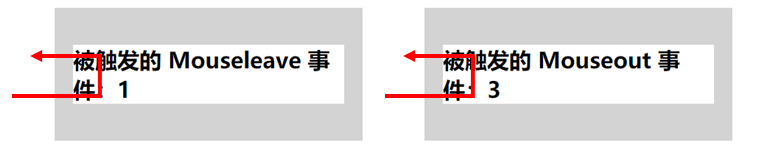
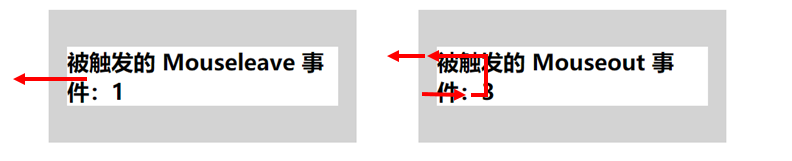
update

Changed region(s): [[0.0, 0.053, 0.9563, 0.9536]]

diff --git a/DOM/DOM事件/mouseenter和mouseover,mouseleave和mouseout.md b/DOM/DOM事件/mouseenter和mouseover,mouseleave和mouseout.md
@@ -5,6 +5,13 @@
 
 **mouseout**：事件在当指针设备（通常是鼠标）移出了附加侦听器的元素或关闭了它的一个子元素时触发。
 **mouseleave**：指点设备（通常是鼠标）的指针移出某个元素时，会触发mouseleave事件。
+## 异同（简略版）
+&nbsp; | 触发条件 | 是否冒泡 
+:-: | :-- | :-: 
+mouse**enter** | 鼠标指针穿过被选元素 | 否 
+mouse**over** | 鼠标指针穿过被选元素**或其子元素、孙元素**| 是 
+mouse**leave** | 鼠标指针穿过被选元素| 否
+mouse**out** | 鼠标指针穿过被选元素**或其子元素、孙元素**| 是 
 ## 执行顺序
 ```
 <div></div>
@@ -18,43 +25,90 @@
         ele.addEventListener('event',function(){
             console.log(output);
         })
-    }
+    }//测试展示如下图
 </script>
 ```
 ![Alt text](../../picture/mouseEvent_1.png)
+
 ## 触发条件
-按照**介绍**中给出的定义
-不论鼠标指针穿过被选元素或其子元素、孙元素，都会触发mouseover事件
+按照**介绍**中给出的定义   
+不论鼠标指针穿过被选元素或其子元素、孙元素，都会触发mouseover事件   
 只有鼠标指针穿过被选元素时，才会触发mouseenter事件
-![Alt text](../../picture/mouseEvent_2.png)
 ```
-    <div>
-        <h2>被绑定的<span class="eventType"></span>事件被触发<span class="count">0</span></h2>
-    </div>
-    <div>
-        <h2>被绑定的<span class="eventType"></span>事件被触发<span class="count">0</span></h2>
-    </div>
-    <script>
-        var div = document.getElementsByTagName('div');
-        function bindEvent(ele, event, output){
-            var eventType = ele.getElementsByClassName('eventType')[0];
-            var count = ele.getElementsByClassName('count')[0];
-            eventType.textContent = event;
-            ele.addEventListener(event,function(){
-                count.textContent = parseInt(count.textContent)+1;
-            })
-        }
+<div>
+    <h2>被绑定的<span class="eventType"></span>事件被触发<span class="count">0</span></h2>
+</div>
+<div>
+    <h2>被绑定的<span class="eventType"></span>事件被触发<span class="count">0</span></h2>
+</div>
+<script>
+    var div = document.getElementsByTagName('div');
+    function bindEvent(ele, event, output){
+        var eventType = ele.getElementsByClassName('eventType')[0];
+        var count = ele.getElementsByClassName('count')[0];
+        eventType.textContent = event;
+        ele.addEventListener(event,function(){
+            count.textContent = parseInt(count.textContent)+1;
+        })
+    }
         
-        bindEvent(div[0], 'mouseover', 'mouseover');
-        bindEvent(div[1], 'mouseenter', 'mouseenter');
-    </script>
+    bindEvent(div[0], 'mouseover', 'mouseover');
+    bindEvent(div[1], 'mouseenter', 'mouseenter');
+</script>
 ```
-按照**介绍**中给出的定义
-只有鼠标指针穿过被选元素时，才会触发mouseleave事件
+<center><font size="1">运动轨迹</font></center>
+
+![Alt text](../../picture/mouseEvent_2.png)
+<center><font size="1">触发说明</font></center>
+
+![Alt text](../../picture/mouseEvent_5.png)
+
+<font size="2">Tips:图中的每一个独立箭头都会触发以此对应的事件</font>   
+
+---
+按照**介绍**中给出的定义   
+只有鼠标指针穿过被选元素时，才会触发mouseleave事件   
 不论鼠标指针穿过被选元素或其子元素、孙元素，都会触发mouseout事件
-![Alt text](../../picture/mouseEvent_3.png)
 ```
     //...借用上面代码
     bindEvent(div[0], 'mouseleave', 'mouseleave');
-    bindEvent(div[1], 'mouseout', 'mouseout');
+    bindEvent(div[1], 'mouseout', 'mouseout');//测试展示如下图
 ```
+<center><font size="1">运动轨迹</font></center>
+
+![Alt text](../../picture/mouseEvent_4.png)
+
+<center><font size="1">触发说明</font></center>
+
+![Alt text](../../picture/mouseEvent_3.png)
+<font size="2">Tips:图中的每一个独立箭头都会触发以此对应的事件<font>
+
+## 冒泡
+mouseenter事件不冒泡
+![Alt text](../../picture/mouseEvent_6.png)
+mouseleave事件不冒泡
+![Alt text](../../picture/mouseEvent_7.png)
+mouseover事件冒泡
+![Alt text](../../picture/mouseEvent_8.png)
+mouseout事件冒泡
+![Alt text](../../picture/mouseEvent_9.png)
+```
+<div class="outer">
+    <div class="inner">
+    </div>
+</div>
+<script>
+    var div = document.getElementsByTagName('div');
+    function bindEvent(ele, event, output){
+        ele.addEventListener(event,function(e){
+            console.log(output);
+        })
+    }
+    bindEvent(div[0], 'mouseover', 'outer');
+    bindEvent(div[1], 'mouseover', 'inner');
+</script>
+```
+## 题外话
+有两个家庭   
+第一个家庭的夫妇分别叫over和out，他们比较关心自己的子孙，子孙有什么事都会去帮助他们处理，在家族群他们经常冒泡参与讨论；   
+另外一个家庭的夫妇分别叫enter和leave，他们就很冷漠，不干涉和参与子孙的活动，也不在家族群冒泡
